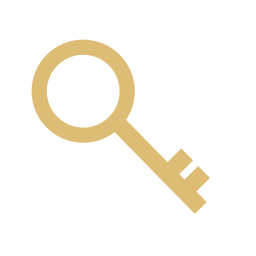
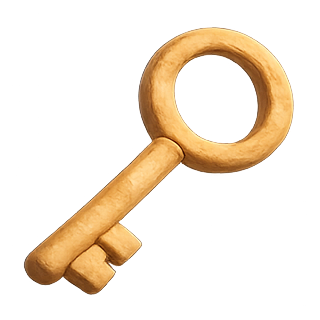
fix

Changed region(s): [[0.0625, 0.0625, 0.9375, 0.9375]]

diff --git a/game.js b/game.js
@@ -1,7 +1,7 @@
 /* КАПИТАН: интерактивная история. Работает полностью офлайн, без библиотек. */
 const $=s=>document.querySelector(s);
 const KEY='captain-japan-quest-v1';
-const ASSET_V='050';
+const ASSET_V='051';
 const stages=['intro','morning','hotelReady','port','portCamera','pawn','pawnDeal','ship','shipWatch','shipSwap','shipTalk','shipNote','pawnReturn','pawnScreen','cctv','cctvListen','market','marketRows','marketShiba','marketQuestion','beach','lighthouse','booba','boobaTruth','ending'];
 let state=load();let audioCtx=null;
 function load(){try{const s=JSON.parse(localStorage.getItem(KEY));if(s&&stages.includes(s.stage))return s}catch{}return{stage:'intro',inventory:[],clues:[],sound:true,tries:0}}
@@ -19,7 +19,7 @@ const defs={
 intro:{art:'hotel',loc:'ОТЕЛЬ · ТОКИО',chapter:'ПРОЛОГ / НЕЗАКОНЧЕННОЕ ДЕЛО',speaker:'РАССКАЗЧИК',text:'В Японии холодало. Капитан стоял у окна роскошного отеля и смотрел на огни Токио. Все вкусняшки остались в украденном чемодане. И тут Лису пришла гениальная идея: найти чемодан и вернуть себе!',objective:'Выспаться и начать расследование.',choices:[['Поставить сказочку и лечь спать →','morning']]},
 morning:{art:'hotel',loc:'ОТЕЛЬ · 06:00',chapter:'ГЛАВА 1 / ВЕЛИКИЙ ДЕТЕКТИВ ПРОСЫПАЕТСЯ',speaker:'КАПИТАН',text:'«Голодный как Лис!» За окном уже светло. В прихожей стоят новые шикарные кроссовочки. Пора собираться. Нажми на них в комнате.',objective:'Найти и надеть кроссовки.',hotspots:[{label:'Кроссовки',x:74,y:72,w:17,h:21,go:'hotelReady',act:()=>addItem('sneakers')}],choices:[['Осмотреть комнату','morning','Новые кроссовки стоят у двери. На них можно нажать прямо на картинке.']]},
 hotelReady:{art:'hotel',loc:'ОТЕЛЬ · УТРО',chapter:'ГЛАВА 1 / СЛЕД ВЕДЁТ В ПОРТ',speaker:'РАССКАЗЧИК',text:'Кэп вымыл личико, причесал брылья, зашнуровал кроссовки и съел бенто. «Рис один!» — проворчал Лис. Следует вернуться туда, где пропал чемодан.',objective:'Отправиться в порт, на место преступления.',choices:[['В порт! →','port']]},
-port:{art:'port',loc:'ПОРТ ТОКИО',chapter:'ГЛАВА 2 / МЕСТО ПРЕСТУПЛЕНИЯ',speaker:'РАССКАЗЧИК',text:'В порту шумно: люди толкаются, грузчики кричат, корабли гудят. Здесь у Кэпа вчера украли чемодан. Осмотри площадь и найди возможную зацепку.',objective:'Осмотреть место пропажи чемодана.',hotspots:[{label:'Камера',x:85,y:17,w:14,h:17,go:'portCamera',act:()=>addClue('Камера над старым ломбардом смотрит на площадь.')}],choices:[['Осмотреть мостовую','port','Ни следов, ни чемодана. Может быть, стоит поднять глаза?']]},
+port:{art:'port',loc:'ПОРТ ТОКИО',chapter:'ГЛАВА 2 / МЕСТО ПРЕСТУПЛЕНИЯ',speaker:'РАССКАЗЧИК',text:'В порту шумно: люди толкаются, грузчики кричат, корабли гудят. Здесь у Кэпа вчера украли чемодан. Осмотри площадь и найди возможную зацепку.',objective:'Осмотреть место пропажи чемодана.',hotspots:[{label:'Камера',x:82,y:17,w:17,h:20,go:'portCamera',act:()=>addClue('Камера над старым ломбардом смотрит на площадь.')}],choices:[['Осмотреть мостовую','port','Ни следов, ни чемодана. Может быть, стоит поднять глаза?']]},
 portCamera:{art:'port',loc:'ПОРТ · ПЛОЩАДЬ',chapter:'ГЛАВА 2 / ГЛАЗ, КОТОРЫЙ ВСЁ ВИДЕЛ',speaker:'КАПИТАН',text:'«Ага!» Над дверью старого ломбарда висит камера наблюдения, направленная прямо на место кражи. Кэп помахал ей лапкой. Время познакомиться с хозяином.',objective:'Попросить владельца ломбарда показать запись.',choices:[['Войти в ломбард →','pawn']]},
 pawn:{art:'pawn',loc:'СТАРЫЙ ЛОМБАРД',chapter:'ГЛАВА 3 / ЗАГАДОЧНЫЙ СТАРИЧОК',speaker:'СТАРИЧОК',text:'За пыльным прилавком старичок разгадывает кроссворд. За его спиной — крепкая дверь. На просьбу показать запись он отвечает: «Могу помочь, но сначала сделай кое-что для меня».',objective:'Выяснить, что нужно старичку.',choices:[['«Чем могу помочь?»','pawnDeal'],['«Шалом! Маниш ма? Сабаба!»','pawn','Старичок тяжело вздыхает: «Молодой человек, что вам от меня нужно?»']]},
 pawnDeal:{art:'pawn',loc:'СТАРЫЙ ЛОМБАРД',chapter:'ГЛАВА 3 / УСЛУГА ЗА УСЛУГУ',speaker:'СТАРИЧОК',text:'«Я жду доставку с судна, прибывшего из Шри-Ланки. Товар задерживается. Принеси его — и получишь запись». Кэп вспоминает: на флаге Шри-Ланки изображён золотой лев с мечом!',objective:'Найти судно под флагом Шри-Ланки.',choices:[['Искать нужный корабль →','ship',null,()=>addItem('jelly')]]},
@@ -36,14 +36,52 @@ market:{art:'market',loc:'ТОКИЙСКИЙ РЫНОК',chapter:'ГЛАВА 6 /
 marketRows:{art:'market',loc:'РЫНОК · КОНДИТЕРСКИЙ РЯД',chapter:'ГЛАВА 6 / НЕОБЫЧНЫЙ ПРОДАВЕЦ',speaker:'РАССКАЗЧИК',text:'За окошком лавки шоколадных манго сидит Сиба-ину. Все почему-то постоянно называют его лисичкой. Капитан-то знает разницу! Как лучше начать беседу?',objective:'Завоевать доверие продавца.',choices:[['«Здравствуйте! А вы Сибен?»','marketShiba'],['«Какая милая лисичка!»','marketRows','Продавец грустнеет: «Я Сиба-ину. Не лисичка». Попробуй ещё раз.']]},
 marketShiba:{art:'market',loc:'РЫНОК · ЛАВКА СИБЕНА',chapter:'ГЛАВА 6 / МАНГО В ШОКОЛАДЕ',speaker:'СИБЕН',text:'«Вы первый, кто не назвал меня лисичкой! Спасибо!» Сибен угощает Капитана целым манго в шоколаде. Теперь он готов помочь с поисками.',objective:'Описать Сибену пропавший чемодан.',choices:[['«Видели цветастый чемодан с пятнами?»','marketQuestion',null,()=>addItem('mango')],['«Почём у вас рыба?»','marketShiba','«У меня только манго в шоколаде», — смеётся Сибен.']]},
 marketQuestion:{art:'market',loc:'РЫНОК · ЛАВКА СИБЕНА',chapter:'ГЛАВА 6 / СВИДЕТЕЛЬ НАЙДЕН',speaker:'СИБЕН',text:'«Вчера приходил один тип с таким чемоданом. Хотел обменять вкусняшки на манго, но смутился и убежал. Бормотал что-то про домик и побежал в сторону пляжа!»',objective:'Найти домик у пляжа.',choices:[['Поделиться манго и пойти к пляжу →','beach',null,()=>{delItem('mango');addClue('Сибен видел вора с цветастым чемоданом. Тот убежал к пляжу.')}]]},
-beach:{art:'beach',loc:'ПУСТЫННЫЙ ПЛЯЖ',chapter:'ГЛАВА 7 / ОГОНЁК В ТЕМНОТЕ',speaker:'РАССКАЗЧИК',text:'Похолодало. На пустом пляже ветер гоняет песок, над водой сгущаются сумерки. Кэп почти теряет надежду... но вдали, на вершине заброшенного маяка, мерцает маленький огонёк.',objective:'Подойти к маяку.',hotspots:[{label:'Маяк',x:75,y:25,w:15,h:50,go:'lighthouse'}],choices:[['Осмотреть пляж','beach','Никого нет. Только маленький огонёк на вершине маяка. Нажми на башню.']]},
+beach:{art:'beach',loc:'ПУСТЫННЫЙ ПЛЯЖ',chapter:'ГЛАВА 7 / ОГОНЁК В ТЕМНОТЕ',speaker:'РАССКАЗЧИК',text:'Похолодало. На пустом пляже ветер гоняет песок, над водой сгущаются сумерки. Кэп почти теряет надежду... но вдали, на вершине заброшенного маяка, мерцает маленький огонёк.',objective:'Подойти к маяку.',hotspots:[{label:'Маяк',x:54,y:12,w:12,h:26,go:'lighthouse'}],choices:[['Осмотреть пляж','beach','Никого нет. Только маленький огонёк на вершине маяка. Нажми на башню.']]},
 lighthouse:{art:'lighthouse',loc:'СТАРЫЙ МАЯК',chapter:'ГЛАВА 8 / ПОДЪЁМ НАВЕРХ',speaker:'РАССКАЗЧИК',text:'Кэп открывает тяжёлую дверь и поднимается по винтовой лестнице. За последней дверью — комнатка со свечами, кровать и открытый чемодан. А рядом — маленькое пухлое существо.',objective:'Узнать, кто украл чемодан.',choices:[['Открыть дверь в комнату →','booba']]},
 booba:{art:'booba',loc:'МАЯК · КОМНАТА НАВЕРХУ',chapter:'ФИНАЛ / ЗАГАДКА БУБЫ',speaker:'БУБА',text:'«Привет! Меня зовут Буба! Я так рад, что ты пришёл!» Существо с радостным «тыгыдым-тыгыдым» бросается обнимать Капитана. Теперь понятно, кому принадлежали шаги!',objective:'Выслушать Бубу.',choices:[['«Расскажи, что случилось»','boobaTruth'],['«Ах ты ворюга!»','booba','Буба испуганно пятится. Кажется, он готов всё объяснить — стоит дать ему шанс.']]},
 boobaTruth:{art:'booba',loc:'МАЯК · КОМНАТА НАВЕРХУ',chapter:'ФИНАЛ / ВАЖНЫЙ ВЫБОР',speaker:'БУБА',text:'«Я увидел твой чемодан и влюбился! А там были вкусняшки... Я хотел обменять их на манго, но не смог. Я ведь на самом деле хороший. Просто очень люблю красивые вещи». Как ответит Капитан?',objective:'Решить, что делать с Бубой.',choices:[['«Я тоже люблю красивые вещи. Давай дружить!»','ending',null,()=>{addItem('suitcase');addClue('Буба признался в краже и вернул чемодан. Капитан выбрал дружбу.')}],['«Отдай чемодан, и больше не повторяй!»','boobaTruth','Буба опускает ушки. Но Кэп видит: ему правда стыдно. Может, есть способ закончить эту историю добрее?']]},
 ending:{art:'ending',loc:'МАЯК · ФИНАЛ',chapter:'ДЕЛО № 001 / РАСКРЫТО',speaker:'РАССКАЗЧИК',text:'Буба обнимает Капитана и обещает ждать его звонка. Кэп закрывает найденный чемодан и отправляется в гостиницу. Впереди у него ещё большие дела: стать самым мудрым, самым смелым и самым преданным. А сегодня он стал немного добрее.',objective:'Дело раскрыто! Чемодан найден, появился новый друг.',choices:[['✦ Посмотреть эпилог','ending',null,()=>showModal('<h2>✦ КОНЕЦ ПЕРВОГО ПРИКЛЮЧЕНИЯ</h2><p class="ending">Самая ценная находка Капитана — новый друг.</p><p>Ты нашёл чемодан, раскрыл тайну звука «тыгыдым» и познакомился с Бубой.</p><p class="credit">По мотивам сказки «Кэп в Японии».</p><button class="choice primary" onclick="closeModal()">Вернуться к игре</button>')],['Начать приключение заново','intro',null,()=>{state.inventory=[];state.clues=[]}]]}
 };
 function clickChoice(btn){const [label,next,wrong,fn]=btn;if(wrong){cue('error');showModal(`<h2>Не совсем!</h2><p>${wrong}</p><button class="choice primary" onclick="closeModal()">Попробовать ещё</button>`);return}if(next===state.stage&&fn){fn();save();render();return}transition(next,fn)}
-function render(){const d=defs[state.stage]||defs.intro;$('#scene').dataset.location=d.art;const npcMap={pawn:'pawnbroker',pawnDeal:'pawnbroker',pawnReturn:'pawnbroker',ship:'maria',shipWatch:'maria',shipSwap:'maria',shipTalk:'maria',shipNote:'maria',marketShiba:'shiba',marketQuestion:'shiba',marketRows:'shiba'};$('#sceneArt').innerHTML=`<img class="painted-scene" src="assets/backgrounds/${d.art}.webp?v=${ASSET_V}" alt="" draggable="false">`;$('#fox').innerHTML='<img class="character-idle captain-sprite" src="assets/characters/captain.png?v=${ASSET_V}" alt="" draggable="false">';$('#fox').classList.toggle('hidden-fox',false);$('#boobaSprite').innerHTML='<img class="character-idle" src="assets/characters/booba.png?v=${ASSET_V}" alt="" draggable="false">';$('#boobaSprite').classList.toggle('hidden-fox',!['booba','boobaTruth','ending'].includes(state.stage));const npc=npcMap[state.stage];$('#npcSprite').innerHTML=npc?`<img class="character-idle" src="assets/characters/${npc}.png?v=${ASSET_V}" alt="" draggable="false">`:'';$('#chapterLabel').textContent=d.chapter;$('#locText').textContent=d.loc;$('#speaker').textContent=d.speaker;$('#stepCount').textContent=`${Math.min(stages.indexOf(state.stage)+1,stages.length)} / ${stages.length}`;$('#storyText').textContent=d.text;$('#objective').textContent=d.objective;$('#progressFill').style.width=Math.round((stages.indexOf(state.stage)+1)/stages.length*100)+'%';$('#choices').replaceChildren(...d.choices.map((ch,i)=>{const b=document.createElement('button');b.className='choice '+((i===0&&!ch[2])?'primary':'');b.textContent=ch[0];b.onclick=()=>clickChoice(ch);return b}));$('#inventory').innerHTML=state.inventory.length?state.inventory.map(x=>`<div class="item" title="${itemDefs[x][1]}"><img class="item-art" src="assets/items/${x}.png?v=${ASSET_V}" alt="${itemDefs[x][1]}"><small>${itemDefs[x][1]}</small></div>`).join(''):'<span class="empty">Пока пусто. Впереди находки!</span>';$('#clues').innerHTML=state.clues.length?state.clues.map(t=>`<div class="clue">${t}</div>`).join(''):'<span class="empty">Улики появятся здесь по мере расследования.</span>';$('#sceneHint').textContent=d.hotspots?.length?'НАЖМИ НА ПОДСВЕЧЕННЫЙ ОБЪЕКТ':'';$('#objects').replaceChildren(...(d.hotspots||[]).map(h=>{const b=document.createElement('button');b.className='hotspot';b.style.cssText=`left:${h.x}%;top:${h.y}%;width:${h.w}%;height:${h.h}%`;b.innerHTML=`<span class="hotspot-marker">${h.label} ↗</span>`;if(h.label==='Кроссовки'){b.classList.add('sneaker-hotspot');b.innerHTML='<img src="assets/items/sneakers.png?v=050" alt="Кроссовки"><span>Кроссовки ↗</span>';}if(h.label==='Камера'){b.classList.add('camera-hotspot');b.innerHTML='<img src="assets/items/camera.png?v=050" alt="Камера"><span>Камера ↗</span>';}if(h.label==='Маяк'){b.classList.add('lighthouse-hotspot');b.innerHTML='<span>Маяк ↗</span>';}b.onclick=()=>transition(h.go,h.act);return b}));$('#soundBtn').classList.toggle('sound-toggle',!state.sound);$('#soundBtn').textContent=state.sound?'♫':'♪̸';}
+
+// Optional environmental discoveries. They enrich the story without locking progression.
+const sceneProps={
+  pawn:[{id:'key',label:'Старый ключ',x:62,y:58,w:11,h:18,
+    text:'За прилавком поблёскивает тяжёлый старинный ключ. «От комнаты с мониторами?» — гадает Кэп. Старичок хмыкает: «Всему своё время».',
+    clue:'Старичок хранит ключ от служебных помещений ломбарда.'}],
+  pawnDeal:[{id:'key',label:'Старый ключ',x:62,y:58,w:11,h:18,
+    text:'Ключ на прилавке выглядит важным, но старичок не спешит отдавать его незнакомому Лису. Сначала нужно выполнить поручение.',
+    clue:'Для доступа к записи нужно заслужить доверие хозяина ломбарда.'}],
+  pawnReturn:[{id:'key',label:'Старый ключ',x:62,y:58,w:11,h:18,
+    text:'«Пора взглянуть на запись», — говорит старичок и забирает ключ. Он открывает дверь в служебную комнату.',
+    clue:'Старичок открыл ключом комнату видеонаблюдения.'}],
+  ship:[{id:'flag',label:'Судовой флаг',x:70,y:17,w:13,h:18,
+    text:'Кэп ищет корабль, прибывший из Шри-Ланки. На настоящем флаге страны изображён золотой лев с мечом. Этот декоративный судовой знак напоминает ему внимательнее осмотреть причал.',
+    clue:'В порту нужно проверить флаг корабля из Шри-Ланки.'}],
+  shipWatch:[{id:'flag',label:'Судовой знак',x:70,y:17,w:13,h:18,
+    text:'Кэп замечает судовой знак возле груза. Но сейчас куда важнее не выдать себя Марии.',
+    clue:'Груз Марии находится на нужном причале.'}],
+  market:[{id:'candy',label:'Конфета',x:19,y:39,w:11,h:17,
+    text:'Среди гор сладостей Кэп находит чудесную завёрнутую конфету. Но сейчас важнее найти свидетеля с цветастым чемоданом.',
+    clue:'Кондитерские прилавки могут вывести на свидетеля.'}],
+  marketRows:[{id:'candy',label:'Конфета',x:19,y:39,w:11,h:17,
+    text:'«Какая прекрасная вкусняшка!» — думает Кэп. Рядом торговец Сиба-ину продаёт целые манго в шоколаде.',
+    clue:'На кондитерском ряду есть лавка манго в шоколаде.'}],
+  marketShiba:[{id:'candy',label:'Конфета',x:19,y:39,w:11,h:17,
+    text:'У Сибена целая витрина сладостей, но самое удивительное здесь — манго в шоколаде.',
+    clue:'Сибен специализируется на манго в шоколаде.'}],
+  cctv:[{id:'camera',label:'Запись камеры',x:43,y:13,w:15,h:16,
+    text:'Кэп всматривается в экран. Лицо вора закрыто чьей-то спиной. Может, помочь сумеет не картинка, а звук?',
+    clue:'На записи лицо похитителя закрыто. Надо прослушать звук.'}]
+};
+function inspectProp(p){
+  cue('tap');
+  addClue(p.clue); save();
+  showModal(`<div class="prop-dialog"><img src="assets/items/${p.id}.png?v=${ASSET_V}" alt="${p.label}"><div><h2>${p.label}</h2><p>${p.text}</p><button class="choice primary" onclick="closeModal()">Продолжить</button></div></div>`);
+  $('#clues').innerHTML=state.clues.map(t=>`<div class="clue">${t}</div>`).join('');
+}
+
+function render(){const d=defs[state.stage]||defs.intro;$('#scene').dataset.location=d.art;const npcMap={pawn:'pawnbroker',pawnDeal:'pawnbroker',pawnReturn:'pawnbroker',ship:'maria',shipWatch:'maria',shipSwap:'maria',shipTalk:'maria',shipNote:'maria',marketShiba:'shiba',marketQuestion:'shiba',marketRows:'shiba'};$('#sceneArt').innerHTML=`<img class="painted-scene" src="assets/backgrounds/${d.art}.webp?v=${ASSET_V}" alt="" draggable="false">`;$('#fox').innerHTML='<img class="character-idle captain-sprite" src="assets/characters/captain.png?v=${ASSET_V}" alt="" draggable="false">';$('#fox').classList.toggle('hidden-fox',false);$('#boobaSprite').innerHTML='<img class="character-idle" src="assets/characters/booba.png?v=${ASSET_V}" alt="" draggable="false">';$('#boobaSprite').classList.toggle('hidden-fox',!['booba','boobaTruth','ending'].includes(state.stage));const npc=npcMap[state.stage];$('#npcSprite').innerHTML=npc?`<img class="character-idle" src="assets/characters/${npc}.png?v=${ASSET_V}" alt="" draggable="false">`:'';$('#chapterLabel').textContent=d.chapter;$('#locText').textContent=d.loc;$('#speaker').textContent=d.speaker;$('#stepCount').textContent=`${Math.min(stages.indexOf(state.stage)+1,stages.length)} / ${stages.length}`;$('#storyText').textContent=d.text;$('#objective').textContent=d.objective;$('#progressFill').style.width=Math.round((stages.indexOf(state.stage)+1)/stages.length*100)+'%';$('#choices').replaceChildren(...d.choices.map((ch,i)=>{const b=document.createElement('button');b.className='choice '+((i===0&&!ch[2])?'primary':'');b.textContent=ch[0];b.onclick=()=>clickChoice(ch);return b}));$('#inventory').innerHTML=state.inventory.length?state.inventory.map(x=>`<div class="item" title="${itemDefs[x][1]}"><img class="item-art" src="assets/items/${x}.png?v=${ASSET_V}" alt="${itemDefs[x][1]}"><small>${itemDefs[x][1]}</small></div>`).join(''):'<span class="empty">Пока пусто. Впереди находки!</span>';$('#clues').innerHTML=state.clues.length?state.clues.map(t=>`<div class="clue">${t}</div>`).join(''):'<span class="empty">Улики появятся здесь по мере расследования.</span>';$('#sceneHint').textContent=d.hotspots?.length?'НАЖМИ НА ПОДСВЕЧЕННЫЙ ОБЪЕКТ':'';$('#objects').replaceChildren(...(d.hotspots||[]).map(h=>{const b=document.createElement('button');b.className='hotspot';b.style.cssText=`left:${h.x}%;top:${h.y}%;width:${h.w}%;height:${h.h}%`;b.innerHTML=`<span class="hotspot-marker">${h.label} ↗</span>`;if(h.label==='Кроссовки'){b.classList.add('sneaker-hotspot');b.innerHTML='<img src="assets/items/sneakers.png?v=${ASSET_V}" alt="Кроссовки"><span>Кроссовки ↗</span>';}if(h.label==='Камера'){b.classList.add('camera-hotspot');b.innerHTML='<img src="assets/items/camera.png?v=${ASSET_V}" alt="Камера"><span>Камера ↗</span>';}if(h.label==='Маяк'){b.classList.add('lighthouse-hotspot');b.innerHTML=`<img src="assets/items/lighthouse.png?v=${ASSET_V}" alt=""><span>Маяк ↗</span>`;}b.onclick=()=>transition(h.go,h.act);return b}));(sceneProps[state.stage]||[]).forEach(p=>{const b=document.createElement('button');b.type='button';b.className='hotspot story-prop';b.style.cssText=`left:${p.x}%;top:${p.y}%;width:${p.w}%;height:${p.h}%`;b.setAttribute('aria-label',p.label);b.innerHTML=`<img src="assets/items/${p.id}.png?v=${ASSET_V}" alt=""><span>${p.label}</span>`;b.onclick=()=>inspectProp(p);$('#objects').appendChild(b)});$('#soundBtn').classList.toggle('sound-toggle',!state.sound);$('#soundBtn').textContent=state.sound?'♫':'♪̸';}
 $('#soundBtn').onclick=()=>{state.sound=!state.sound;save();render();if(state.sound)cue()};$('#journalBtn').onclick=()=>showModal(`<h2>Дневник Капитана</h2><p><b>Текущее место:</b> ${defs[state.stage].loc}</p><p><b>Задача:</b> ${defs[state.stage].objective}</p><p><b>Мои улики:</b></p>${state.clues.length?state.clues.map(x=>`<p>✦ ${x}</p>`).join(''):'<p>Пока нет улик.</p>'}<p class="notice">Прогресс автоматически сохраняется в этом браузере.</p><button class="choice primary" onclick="closeModal()">Продолжить</button>`);$('#resetBtn').onclick=()=>showModal('<h2>Начать заново?</h2><p>Текущий прогресс и найденные улики будут сброшены.</p><button class="choice primary" onclick="state={stage:\'intro\',inventory:[],clues:[],sound:state.sound,tries:0};save();closeModal();render()">Да, новое расследование</button> <button class="choice" onclick="closeModal()">Отмена</button>');$('#mapChip').onclick=()=>showModal(`<h2>◈ ${defs[state.stage].loc}</h2><p>${defs[state.stage].objective}</p><button class="choice primary" onclick="closeModal()">Продолжить</button>`);
 function svg(inner,sky='#243d53'){return `<svg xmlns="http://www.w3.org/2000/svg" viewBox="0 0 1000 620" preserveAspectRatio="xMidYMid slice"><defs><linearGradient id="sky" x2="0" y2="1"><stop stop-color="${sky}"/><stop offset="1" stop-color="#647384"/></linearGradient><linearGradient id="warm" x2="0" y2="1"><stop stop-color="#fff0b5"/><stop offset="1" stop-color="#e89b5b"/></linearGradient><linearGradient id="sea" x2="0" y2="1"><stop stop-color="#2c5a69"/><stop offset="1" stop-color="#1a303e"/></linearGradient><pattern id="grain" width="36" height="36" patternUnits="userSpaceOnUse"><circle cx="3" cy="6" r=".7" fill="#fff" opacity=".12"/><circle cx="20" cy="18" r=".9" fill="#000" opacity=".2"/></pattern></defs>${inner}<rect width="1000" height="620" fill="url(#grain)" opacity=".7" pointer-events="none"/></svg>`}
 function windowTokyo(){let b='';for(let i=0;i<18;i++){const x=i*61-10,h=170+((i*71)%200);b+=`<rect x="${x}" y="${420-h}" width="48" height="${h}" fill="${i%2?'#1d314b':'#2a3f57'}"/>`;for(let j=0;j<5;j++)b+=`<rect x="${x+9+(j%2)*19}" y="${435-h+j*35}" width="8" height="10" fill="${(i+j)%3?'#b6a476':'#ffd9a1'}" opacity=".8"/>`}return b}

diff --git a/index.html b/index.html
@@ -1,6 +1,6 @@
-<!doctype html><html lang="ru"><head><meta charset="utf-8"><meta name="viewport" content="width=device-width,initial-scale=1,viewport-fit=cover"><meta name="theme-color" content="#131c2d"><meta name="description" content="Капитан: Дело о пропавшем чемодане. Интерактивный детективный квест по сказке «Кэп в Японии»."/><title>КАПИТАН — Дело о пропавшем чемодане</title><link rel="stylesheet" href="style.css?v=050"></head><body>
+<!doctype html><html lang="ru"><head><meta charset="utf-8"><meta name="viewport" content="width=device-width,initial-scale=1,viewport-fit=cover"><meta name="theme-color" content="#131c2d"><meta name="description" content="Капитан: Дело о пропавшем чемодане. Интерактивный детективный квест по сказке «Кэп в Японии»."/><title>КАПИТАН — Дело о пропавшем чемодане</title><link rel="stylesheet" href="style.css?v=051"></head><body>
 <div id="app"><header class="topbar"><div class="brand"><div class="brand-symbol">✦</div><div class="brand-text"><strong>КАПИТАН</strong><small>ДЕЛО О ПРОПАВШЕМ ЧЕМОДАНЕ</small></div></div><div class="top-actions"><button id="soundBtn" class="iconbtn" aria-label="Звук">♫</button><button id="journalBtn" class="iconbtn" aria-label="Дневник">☷</button><button id="resetBtn" class="iconbtn" aria-label="Начать заново">↺</button></div></header>
 <main><div class="game-shell"><section id="scene" class="scene"><div class="scene-art" id="sceneArt"></div><div id="objects" class="objects"></div><div class="scene-vignette"></div><div id="npcSprite" class="npc-character" aria-hidden="true"></div><div id="boobaSprite" class="booba-character hidden-fox" aria-hidden="true"></div><div class="chapter-label" id="chapterLabel"></div><button class="map-chip" id="mapChip" title="Текущая локация">◈ <span id="locText">ТОКИО</span></button><div class="fox-character" id="fox" aria-hidden="true"></div><div id="sceneHint" class="scene-hint"></div></section><section class="story-panel"><div class="story-top"><span id="speaker" class="speaker"></span><span id="stepCount" class="step-count"></span></div><div id="storyText" class="story-text" aria-live="polite"></div><div id="choices" class="choices"></div></section></div><aside class="sidebar"><div class="side-heading">ДЕЛО № 001 <span>● В ПРОЦЕССЕ</span></div><div class="progress-title">Расследование</div><div class="progress-track"><div id="progressFill"></div></div><div id="objective" class="objective"></div><div class="side-divider"></div><div class="side-heading">КАРМАНЫ КЭПА</div><div id="inventory" class="inventory"></div><div class="side-divider"></div><div class="side-heading">ЗАМЕТКИ ДЕТЕКТИВА</div><div id="clues" class="clues"></div><div class="side-bottom">✦ ИСТОРИЯ О МАЛЕНЬКОМ ЛИСЕ С БОЛЬШИМ СЕРДЦЕМ</div></aside></main>
 <footer><span>ПО МОТИВАМ СКАЗКИ «КЭП В ЯПОНИИ»</span><span>СОХРАНЕНИЕ АВТОМАТИЧЕСКОЕ</span></footer></div>
 <div id="modal" class="modal hidden" role="dialog" aria-modal="true"><div class="modal-card"><button id="closeModal" class="modal-close" aria-label="Закрыть">×</button><div id="modalContent"></div></div></div>
-<script src="game.js?v=050"></script></body></html>
+<script src="game.js?v=051"></script></body></html>

diff --git a/style.css b/style.css
@@ -77,3 +77,15 @@
  .scene-hint{font-size:8px;max-width:55%;text-align:right}
 }
 @media(prefers-reduced-motion:reduce){.character-idle{animation:none!important}}
+
+/* v0.5.1: clay interactive props, clearly distinct from scene background. */
+.hotspot.story-prop{border:0;background:transparent;box-shadow:none;z-index:6;padding:0;min-width:44px;min-height:44px;transition:filter .15s ease, transform .15s ease}
+.hotspot.story-prop img{top:0;left:10%;width:80%;height:78%;max-width:none;max-height:none;object-fit:contain;filter:drop-shadow(0 3px 5px #170e0cbb)}
+.hotspot.story-prop span{bottom:-1px;max-width:110%;background:#291c19d9;border:1px solid #ddbb8f;font-size:9px;padding:3px 6px}
+.hotspot.story-prop:hover,.hotspot.story-prop:focus-visible{background:transparent;filter:brightness(1.14);transform:scale(1.06)}
+.hotspot.lighthouse-hotspot{border:0;background:transparent;box-shadow:none}
+.hotspot.lighthouse-hotspot img{left:10%;top:0%;width:80%;height:75%;max-width:100%;max-height:100%;object-fit:contain}
+.prop-dialog{display:flex;align-items:center;gap:22px}
+.prop-dialog>img{width:132px;height:132px;object-fit:contain;flex-shrink:0;filter:drop-shadow(0 8px 9px #0007)}
+.prop-dialog h2{margin:0 0 8px}
+@media(max-width:650px){.prop-dialog{flex-direction:column;text-align:center;gap:9px}.prop-dialog>img{height:100px;width:100px}.hotspot.story-prop span{font-size:8px}}

diff --git a/README-v0.5.1.md b/README-v0.5.1.md
@@ -1,0 +1,13 @@
+# v0.5.1 — Plasticine story props
+
+Redrawn: camera, candy, ship's decorative flag, key, lighthouse, isolated transparent PNG assets (320x320).
+
+Integration:
+- Camera: main progression hotspot in the port, optional inspection in CCTV room.
+- Key: inspectable prop in pawnshop, including after return.
+- Flag: inspectable decorative ship marker at the dock (not presented as a reproduction of Sri Lanka national flag).
+- Candy: inspectable clue on market/confectionery scenes.
+- Lighthouse: visual icon in beach transition hotspot, aligned to distant lighthouse.
+
+Optional props add clues to the existing diary; no new obligatory gates, no save schema change.
+All new assets have cache-busting v=051.
